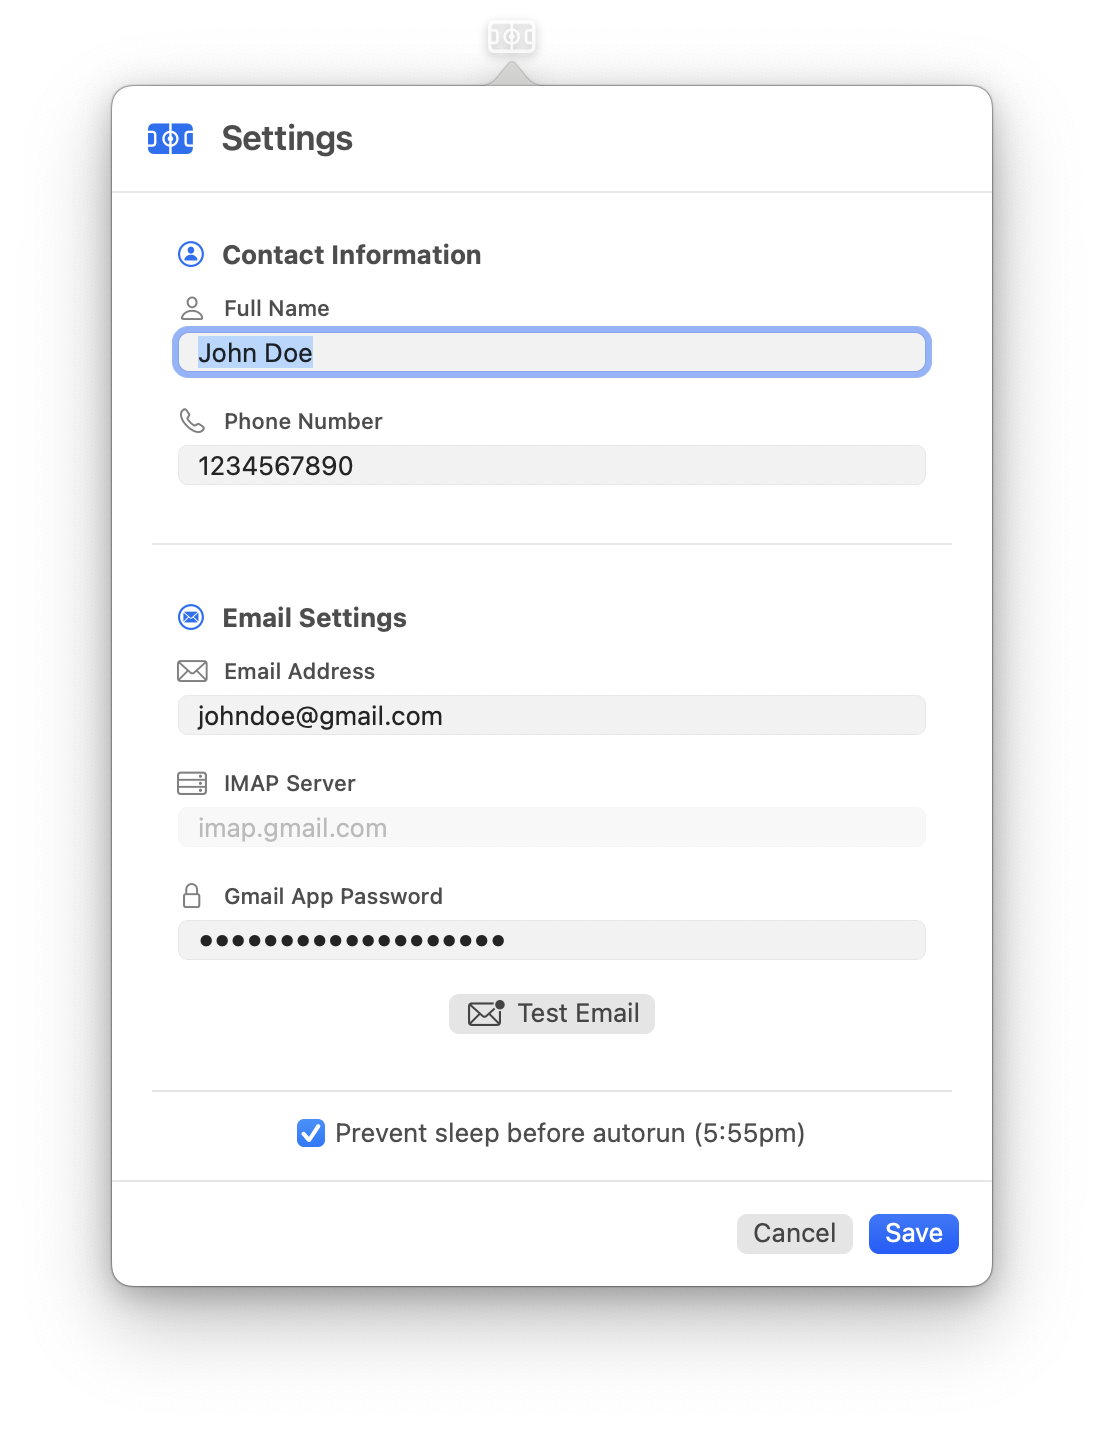
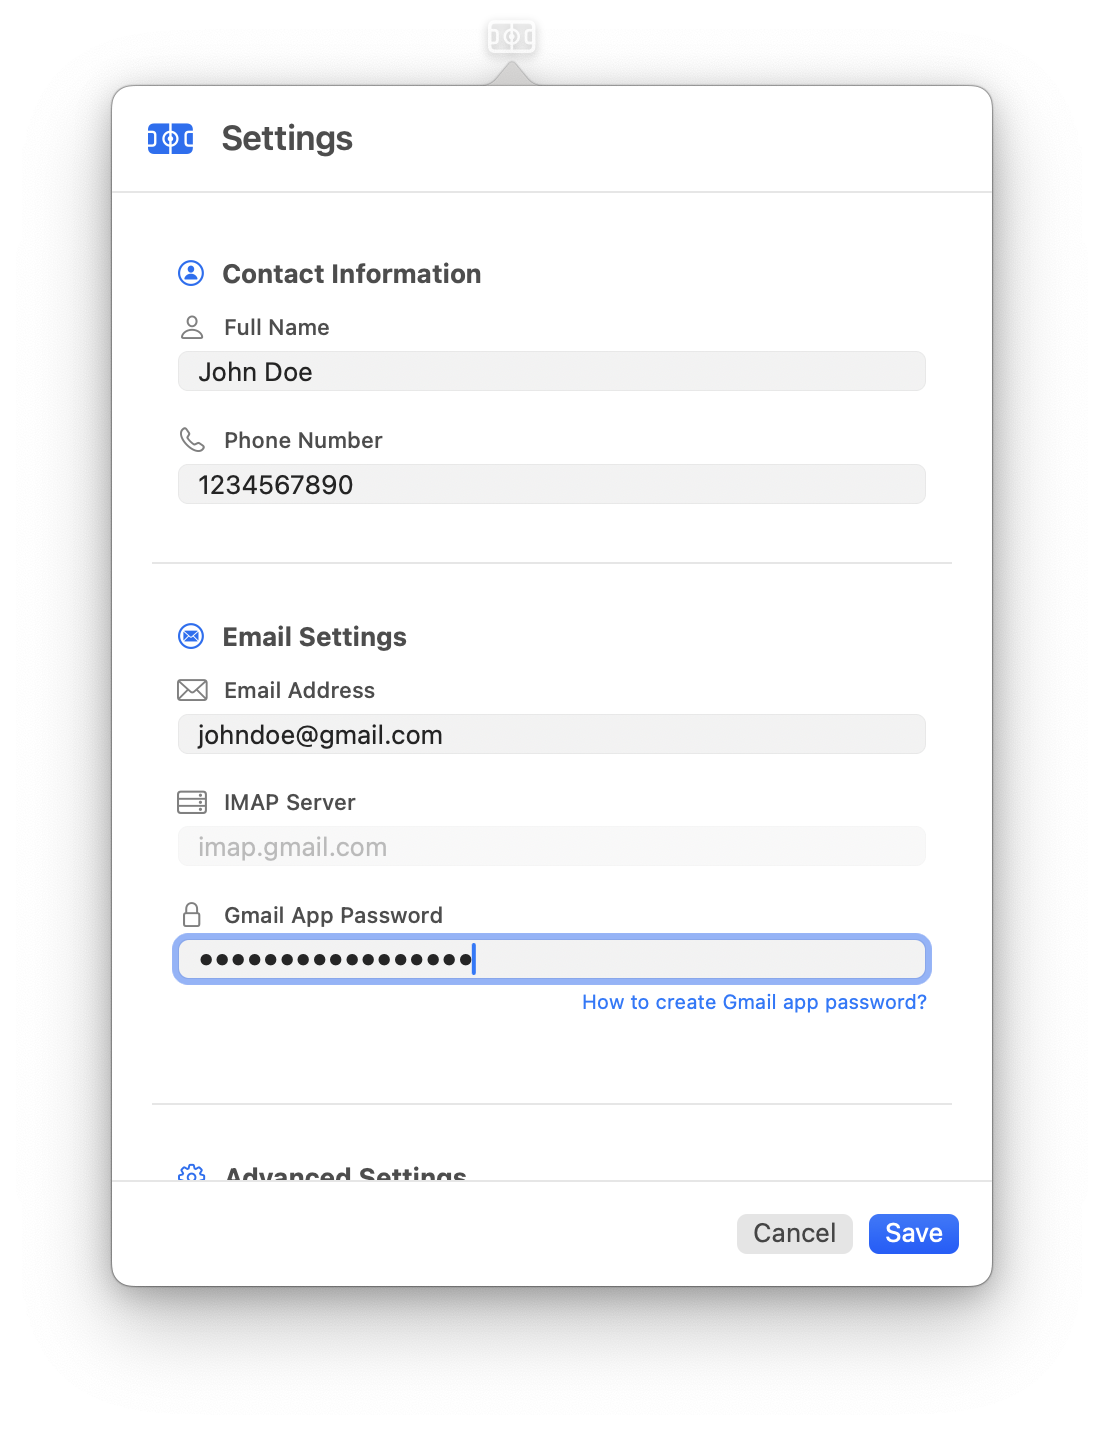
Improve screenshots

diff --git a/README.md b/README.md
@@ -26,17 +26,6 @@
 4. **Configure**: Click the icon, add your reservation details, and set up email for verification.
 5. **Automate!** Sit back and let ODYSSEY book your sports for you! 🎉
 
-## 🖼 Screenshots
-
-<p align="center">
-  <img src="Documentation/Images/main.png" alt="Main View" width="400"/>
-  <img src="Documentation/Images/about.png" alt="About View" width="400"/>
-</p>
-<p align="center">
-  <img src="Documentation/Images/settings.png" alt="Settings View" width="400"/>
-  <img src="Documentation/Images/add_config.png" alt="Add Configuration View" width="400"/>
-</p>
-
 ## ✨ Features
 
 | Feature                     | Description                                                     |
@@ -75,22 +64,29 @@
 ### 1⃣ Add a Reservation Configuration
 
 - Click the ODYSSEY menu bar icon
-- Click **Add Configuration**
-- Fill in the facility URL, sport name, and time slots
-- Configure your contact information
+- Click **Add Configuration** or **+** button
+- Fill in the facility URL, select sport name, and daytime slot
+
+![](Documentation/Images/add_config.png)
 
 ### 2⃣ Set Up Contact Data
 
-- Enter your phone and name
-- Enter your IMAP/Gmail settings
-- Test your email connection
+- Click **Settings**
+- Fill in your name and phone
+- Fill in your email credentials
+- Click **Test Email**
+- Tune advanced settings (optional)
 
-### 3⃣ Run Reservations
+![](Documentation/Images/settings.png)
+
+### 3⃣ Configure Reservations
 
 - **Manual Run**: Click **Run Now** for immediate execution
-- **Automatic**: Runs at 6PM, 2 days before your event
+- **Auto Run**: Enable toggle; runs at 6PM, 2 days before your event
+- **Edit Configuration** (optional)
+- **Delete Configuration** (optional)
 
-### 4⃣ Browser Windows
+![](Documentation/Images/main.png)
 
 > ⚠ **Important:**
 > To avoid Google reCAPTCHA and other anti-bot detection, browser windows must remain visible during automation. Hiding or minimizing these windows may increase the risk of being flagged as a bot and cause reservations to fail. The automation simulates real user activity in a visible window for maximum reliability.
